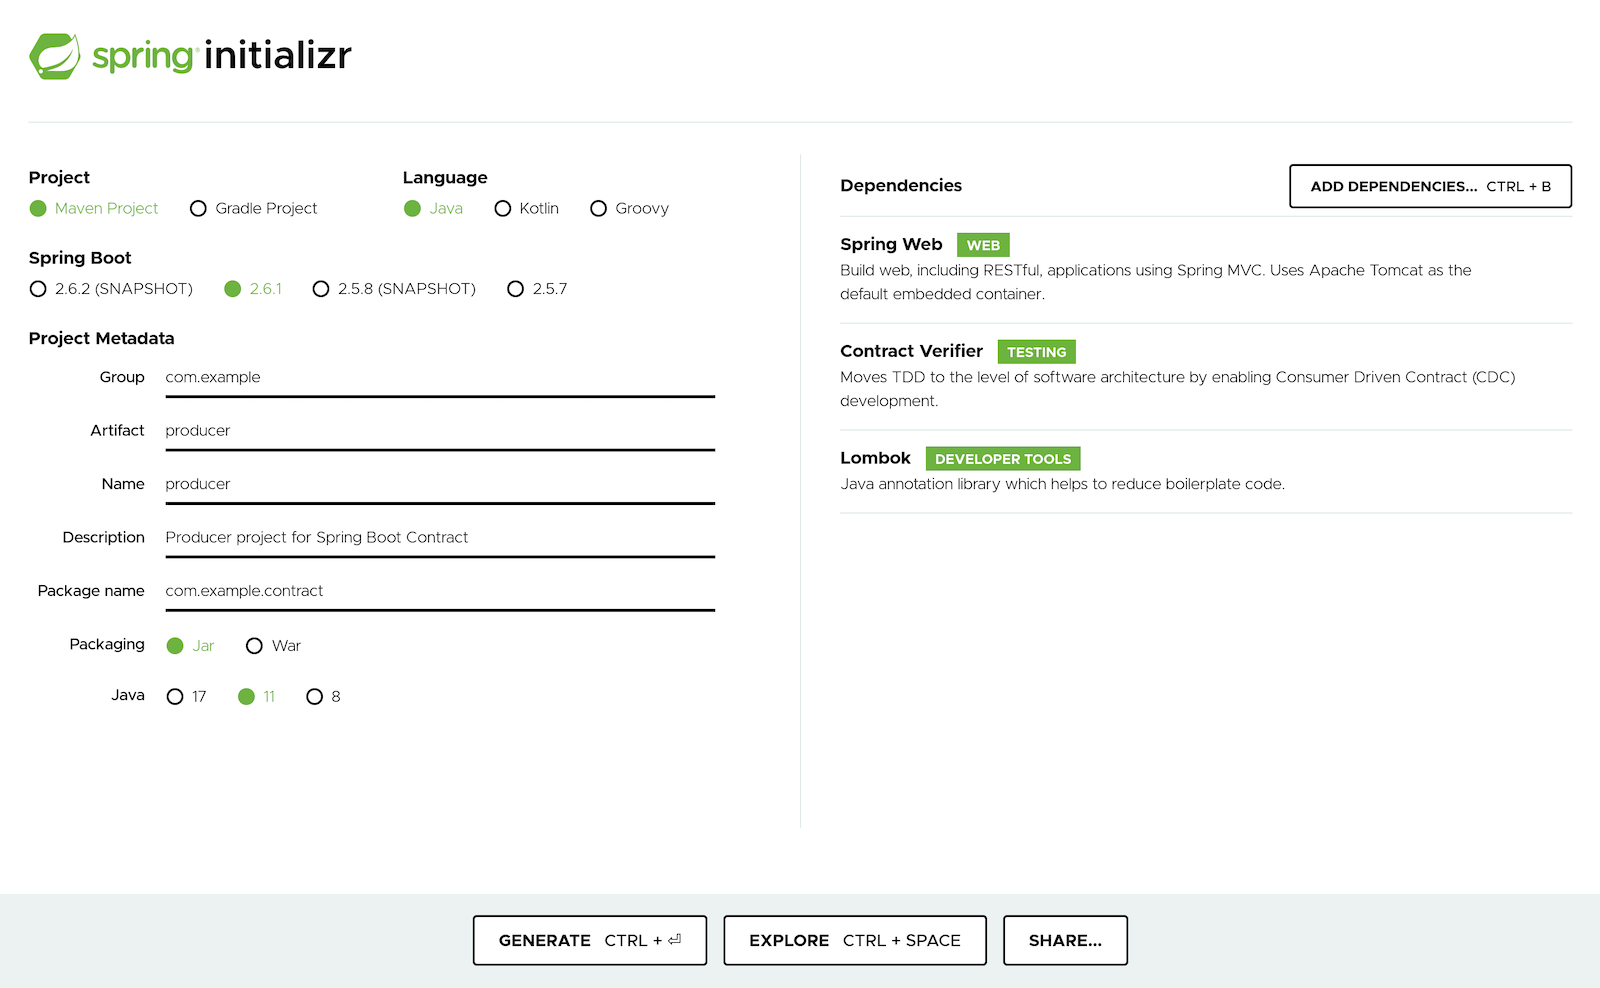
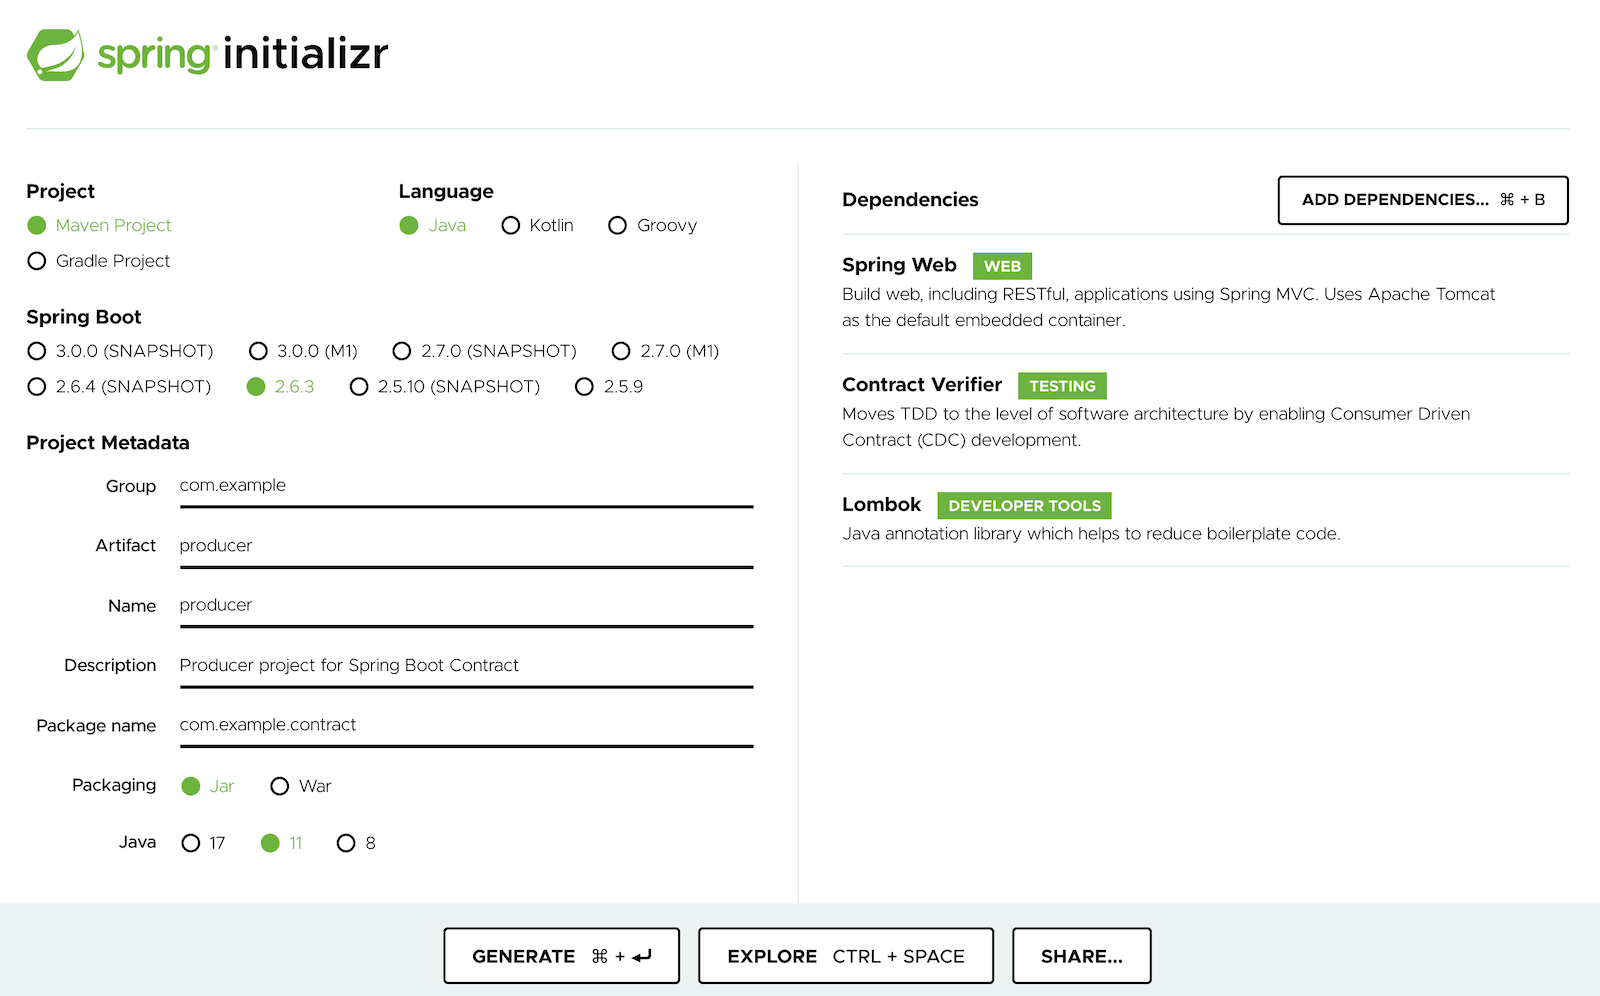
Updates after QA

diff --git a/_source/_posts/2022-02-01-spring-cloud-contract.md b/_source/_posts/2022-02-01-spring-cloud-contract.md
@@ -7,9 +7,9 @@ communities: [java]
 description: "Using Spring Cloud Contract to create better integration tests for microservices."
 tags: [java, spring-cloud-contract, spring-security, spring-boot, oauth2]
 tweets:
-- ""
-- ""
-- ""
+- "For testing your microservices, do you want fast feedback without the need to set up the whole world of microservices? Of course you do! Check out @SpringCloud Contract. It's pretty slick!"
+- "Spring Cloud Contract helps you test interconnected microservices. See how to use it in this quick tutorial."
+- "Learn how to use Spring Cloud Contract to create solid integration tests for your microservices."
 image:
 type: conversion
 github: https://github.com/oktadev/okta-spring-cloud-contract-example
@@ -41,27 +41,27 @@ Before you get started, you'll need to make sure you have a few tools installed.
 
 - **Okta CLI**: The Okta CLI is an easy way to create projects that use Okta for security. Follow the installation instructions on the [Okta CLI project website](https://cli.okta.com/manual/#installation). You should log in to your existing account or register for a new account using the CLI before continuing with the tutorial.
 
-- **Java 11**: This project uses Java 11. OpenJDK 11 will work just as well.  Instructions are found on the [OpenJDK website](https://openjdk.java.net/install/). OpenJDK can also be installed using [Homebrew](https://brew.sh/). Alternatively, [SDKMAN](https://sdkman.io/) is another excellent option for installing and managing Java versions.
+- **Java 11**: This project uses Java 11. OpenJDK 11 will work just as well. Installation instructions can be found on the [OpenJDK website](https://openjdk.java.net/install/). OpenJDK can also be installed using [Homebrew](https://brew.sh/). Alternatively, [SDKMAN](https://sdkman.io/) is another excellent option for installing and managing Java versions.
 
 - **HTTPie**: This is a powerful command-line HTTP request utility you'll use to test both Spring Boot resource servers. Install it according to [the docs on their site](https://httpie.org/doc#installation).
 
 ## Bootstrap the producer project using Spring Initialzr
 
-You'll use the Spring Initializr project to bootstrap the Producer project. Open [this link](https://start.spring.io/#!type=maven-project&language=java&platformVersion=2.6.2&packaging=jar&jvmVersion=11&groupId=com.example&artifactId=producer&name=producer&description=Producer%20project%20for%20Spring%20Boot%20Contract&packageName=com.example.contract&dependencies=web,cloud-contract-verifier,lombok) to access the pre-configured starter project.
+You'll use the Spring Initializr project to bootstrap the Producer project. Open [this link](https://start.spring.io/#!type=maven-project&language=java&platformVersion=2.6.3&packaging=jar&jvmVersion=11&groupId=com.example&artifactId=producer&name=producer&description=Producer%20project%20for%20Spring%20Boot%20Contract&packageName=com.example.contract&dependencies=web,cloud-contract-verifier,lombok) to access the pre-configured starter project.
 
 {% img blog/spring-cloud-contract/producer-starter-config.png alt:"Producer Starter Configuration" width:"1000" %}{: .center-image }
 
-You are creating a Java project -- Java 11 -- using Maven as the build system. The Spring Boot version was 2.6.2 when I wrote this tutorial. You are including three dependencies: 
+You are creating a Java project -- Java 11 -- using Maven as the build system. The Spring Boot version was 2.6.3 when I wrote this tutorial. You are including three dependencies: 
 
-- **[Spring Web](https://docs.spring.io/spring-framework/docs/current/reference/html/web.html)**: adds the basic HTTP/web capabilities to build a REST API.
-- **[Contract Verifier](https://spring.io/projects/spring-cloud-contract)**: brings in Spring Cloud Contract project by enabling Consumer Drive Contracts and stub generation.
-- **[Lombok](https://projectlombok.org/)**: is a helper project that will generate some getters, setters, and constructors.
+- [Spring Web](https://docs.spring.io/spring-framework/docs/current/reference/html/web.html): adds the basic HTTP/web capabilities to build a REST API.
+- [Contract Verifier](https://spring.io/projects/spring-cloud-contract): brings in Spring Cloud Contract project by enabling Consumer Drive Contracts and stub generation.
+- [Lombok](https://projectlombok.org/): is a helper project that will generate some getters, setters, and constructors.
 
 When you're ready, click **Generate** and save the zip file in an appropriate parent directory. You'll be making two Spring Boot projects (as mentioned, a producer and a consumer), so it probably makes sense to have a parent directory named something like `Spring Cloud Contract Tutorial` or `spring-cloud-contract-tutorial` (if you dislike spaces in directory names). 
 
 Unzip the file and open the directory in your favorite editor or IDE. (I'm an IDE/IntelliJ man myself -- hopefully that's not disappointing to y'all -- because in the immortal words of Buckaroo Banzai "Life is too short for vim".)
 
-Let's start by building the hat producer. Both the producer and consumer projects will be Spring Boot resource servers that use Spring Web to implement a simple REST API.
+Let's start by building the hat producer. Both the producer and consumer projects will be Spring Boot resource servers that use Spring MVC to implement a simple REST API.
 
 Create a `Hat.java` file that is the data model for the hats the producer will serve.
 
@@ -83,7 +83,7 @@ public class Hat {
 }
 ```
 
-The hat has four attributes, an `id` as well as `name`, `size`, and `color`. Notice the two annotations. These are what Lombok helped us with. The `@Data` annotation generates getters and setters as well as a `toString()` and a constructor for all required arguments ([check out the docs](https://projectlombok.org/features/Data)). The `@AllArgsConstructor` annotation generates a constructor for all fields in the class. I really like it because it de-clutters the data model classes and saves some time generating all of the 'ceremony' methods. 
+The hat has four attributes, an `id` as well as `name`, `size`, and `color`. Notice the two annotations. These are what Lombok helps us with. The `@Data` annotation generates getters and setters as well as a `toString()` and a constructor for all required arguments ([check out the docs](https://projectlombok.org/features/Data)). The `@AllArgsConstructor` annotation generates a constructor for all fields in the class. I really like it because it de-clutters the data model classes and saves some time generating all of the 'ceremony' methods. 
 
 Next create a `HatService.java`. This is in lieu of using JPA and an actual database to persist the Hat object instances. It's just for demonstration purposes and simply creates two hats --  a large, red sombrero and a smaller blue beanie -- and serves them by ID.  
 
@@ -246,6 +246,8 @@ Contract.make {
 
 The last contract defines a 404 error message for hat ID 3.
 
+`src/test/resources/contracts/find_hat_by_id3.groovy`
+
 ```groovy
 package contracts
 
@@ -266,8 +268,6 @@ Contract.make {
 }
 ```
 
-
-
 For the integration tests generated from these contracts to work, you need to define a base class and add the base class to the `pom.xml`.
 
 Create a `BaseClass.java` test class (notice that this is in `src/test` not `src/main`).
@@ -276,7 +276,6 @@ Create a `BaseClass.java` test class (notice that this is in `src/test` not `src
 
 ```java
 package com.example.contract;
-
 
 import io.restassured.module.mockmvc.RestAssuredMockMvc;
 import org.junit.jupiter.api.BeforeEach;
@@ -341,7 +340,7 @@ To generate the stubs and the integration tests for the contracts, run the follo
 ./mvnw install
 ```
 
-The most important thing this command does (in the context of this tutorial) is that it generates the stubs and installs them in the local `.m2` (Maven) repo. In a production scenario, you might want to install the stubs in a remote repository instead. Take a look at [the Spring Cloud docs](https://docs.spring.io/spring-cloud-contract/docs/3.0.0-SNAPSHOT/reference/htmlsingle/) to see how that is accomplished.
+The most important thing this command does (in the context of this tutorial) is that it generates the stubs and installs them in the local `.m2` (Maven) repo. In a production scenario, you might want to install the stubs in a remote repository instead. Take a look at [the Spring Cloud docs](https://docs.spring.io/spring-cloud-contract/docs/3.1.0/reference/html/) to see how that is accomplished.
 
 If you read through the console output, you'll see a lot of information about the generated integration tests and the stubs. For example, look at the following lines.
 
@@ -354,7 +353,6 @@ If you read through the console output, you'll see a lot of information about th
 [INFO] Using [com.example.contract.BaseClass] as base class for test classes, [null] as base package for tests, [null] as package with base classes, base class mappings []
 [INFO] Creating new class file [.../producer/target/generated-test-sources/contracts/com/example/contract/ContractVerifierTest.java]
 [INFO] Generated 1 test classes.
-
 ```
 
 These lines tell you that Spring found the contracts in the `src/test/resources/contracts` folder, used the base test class defined in the `pom.xml`, and generated integration tests based on the contracts.
@@ -435,19 +433,19 @@ You'll also see lines like the following, showing that the producer stubs have b
 
 ```bash
 [INFO] Converting from Spring Cloud Contract Verifier contracts to WireMock stubs mappings
-[INFO]      Spring Cloud Contract Verifier contracts directory: /home/andrewcarterhughes/Development/okta/2021/spring-book-contracts/QA1/producer/src/test/resources/contracts
-[INFO] Stub Server stubs mappings directory: /home/andrewcarterhughes/Development/okta/2021/spring-book-contracts/QA1/producer/target/stubs/META-INF/com.example/producer/0.0.1-SNAPSHOT/mappings
-[INFO] Creating new stub [/home/andrewcarterhughes/Development/okta/2021/spring-book-contracts/QA1/producer/target/stubs/META-INF/com.example/producer/0.0.1-SNAPSHOT/mappings/find_hat_by_id.json]
-[INFO] Creating new stub [/home/andrewcarterhughes/Development/okta/2021/spring-book-contracts/QA1/producer/target/stubs/META-INF/com.example/producer/0.0.1-SNAPSHOT/mappings/find_hat_by_id2.json]
-[INFO] Creating new stub [/home/andrewcarterhughes/Development/okta/2021/spring-book-contracts/QA1/producer/target/stubs/META-INF/com.example/producer/0.0.1-SNAPSHOT/mappings/find_hat_by_id3.json]
+[INFO]      Spring Cloud Contract Verifier contracts directory: /home/andrewcarterhughes/Development/okta/2021/spring-cloud-contracts/QA1/producer/src/test/resources/contracts
+[INFO] Stub Server stubs mappings directory: /home/andrewcarterhughes/Development/okta/2021/spring-cloud-contracts/QA1/producer/target/stubs/META-INF/com.example/producer/0.0.1-SNAPSHOT/mappings
+[INFO] Creating new stub [/home/andrewcarterhughes/Development/okta/2021/spring-cloud-contracts/QA1/producer/target/stubs/META-INF/com.example/producer/0.0.1-SNAPSHOT/mappings/find_hat_by_id.json]
+[INFO] Creating new stub [/home/andrewcarterhughes/Development/okta/2021/spring-cloud-contracts/QA1/producer/target/stubs/META-INF/com.example/producer/0.0.1-SNAPSHOT/mappings/find_hat_by_id2.json]
+[INFO] Creating new stub [/home/andrewcarterhughes/Development/okta/2021/spring-cloud-contracts/QA1/producer/target/stubs/META-INF/com.example/producer/0.0.1-SNAPSHOT/mappings/find_hat_by_id3.json]
 ```
 
 And toward the end of the console output, you'll see that the stubs jar has been installed in the local Maven repo along with the producer application jar and the POM.
 
 ```bash
-[INFO] Installing /home/andrewcarterhughes/Development/okta/2021/spring-book-contracts/QA1/producer/target/producer-0.0.1-SNAPSHOT.jar to /home/andrewcarterhughes/.m2/repository/com/example/producer/0.0.1-SNAPSHOT/producer-0.0.1-SNAPSHOT.jar
-[INFO] Installing /home/andrewcarterhughes/Development/okta/2021/spring-book-contracts/QA1/producer/pom.xml to /home/andrewcarterhughes/.m2/repository/com/example/producer/0.0.1-SNAPSHOT/producer-0.0.1-SNAPSHOT.pom
-[INFO] Installing /home/andrewcarterhughes/Development/okta/2021/spring-book-contracts/QA1/producer/target/producer-0.0.1-SNAPSHOT-stubs.jar to /home/andrewcarterhughes/.m2/repository/com/example/producer/0.0.1-SNAPSHOT/producer-0.0.1-SNAPSHOT-stubs.jar
+[INFO] Installing /home/andrewcarterhughes/Development/okta/2021/spring-cloud-contracts/QA1/producer/target/producer-0.0.1-SNAPSHOT.jar to /home/andrewcarterhughes/.m2/repository/com/example/producer/0.0.1-SNAPSHOT/producer-0.0.1-SNAPSHOT.jar
+[INFO] Installing /home/andrewcarterhughes/Development/okta/2021/spring-cloud-contracts/QA1/producer/pom.xml to /home/andrewcarterhughes/.m2/repository/com/example/producer/0.0.1-SNAPSHOT/producer-0.0.1-SNAPSHOT.pom
+[INFO] Installing /home/andrewcarterhughes/Development/okta/2021/spring-cloud-contracts/QA1/producer/target/producer-0.0.1-SNAPSHOT-stubs.jar to /home/andrewcarterhughes/.m2/repository/com/example/producer/0.0.1-SNAPSHOT/producer-0.0.1-SNAPSHOT-stubs.jar
 ```
 
 These stubs are what you will, in a few minutes, import into the consumer application for integration testing. **Notice how, because of the autogenerated integration testing, the behavior of the stubs is guaranteed to match the behavior tested and defined by the contract.** This is awesome. However, bear in mind, "the devil is in the contract," as they say. 
@@ -520,7 +518,7 @@ Remember that here you are seeing the "live" data, not the test data that is def
 
 ## Add identity with Okta
 
-Now you are going to add Okta JSON Web Token (JWT) auth to the application. You should have already installed the CLI and signed up for a free Okta developer account. If you have not, please follow the installation instructions on the [Okta CLI project website](https://cli.okta.com/manual/#installation)and run `okta register`. 
+Now you are going to add Okta JSON Web Token (JWT) auth to the application. You should have already installed the CLI and signed up for a free Okta developer account. If you have not, please follow the installation instructions on the [Okta CLI project website](https://cli.okta.com/manual/#installation) and run `okta register`. 
 
 Add the dependency for Okta's Spring Boot starter to the `pom.xml` file. This project adds the necessary dependencies to use Okta as an OAuth 2.0 and OIDC provider. Take a look at [the project's GitHub page](https://github.com/okta/okta-spring-boot) for more info.
 
@@ -591,12 +589,12 @@ Start the application (or, if it is still running, use `control-c` to stop it an
 ```bash
 ./mvnw spring-boot:run
 ```
-## Generate a JWT and test the secure app
 
+## Generate a JWT and test the secure app
 
 To generate a valid JWT, you need to create an OpenID Connect (OIDC) application on Okta and use the OIDC Debugger application to request a JWT from the OIDC application. 
 
-{% include setup/cli.md type="web" install="false" loginRedirectUri="https://oidcdebugger.com/debug" %}
+{% include setup/cli.md type="spa" install="false" loginRedirectUri="https://oidcdebugger.com/debug" logoutRedirectUri="https://oidcdebugger.com/" %}
 
 {% include setup/oidcdebugger.md %}
 
@@ -633,9 +631,9 @@ One of the benefits of the Spring Cloud Contract project is that the mocked and 
 
 The next step is to create the consumer application. This will simulate a public-facing service to retrieve hats from the producer and serve them to the clients. The key point in this tutorial is to see how the stubs generated from the producer project can be imported into the consumer project and used to verify application behavior.  
 
-Use the Spring Initializr to create the starter project by following [this link](https://start.spring.io/#!type=maven-project&language=java&platformVersion=2.6.2&packaging=jar&jvmVersion=11&groupId=com.example&artifactId=consumer&name=consumer&description=Producer%20project%20for%20Spring%20Boot%20Contract&packageName=com.example.consumer&dependencies=web,cloud-contract-stub-runner,lombok).
+Use the Spring Initializr to create the starter project by following [this link](https://start.spring.io/#!type=maven-project&language=java&platformVersion=2.6.3&packaging=jar&jvmVersion=11&groupId=com.example&artifactId=consumer&name=consumer&description=Producer%20project%20for%20Spring%20Boot%20Contract&packageName=com.example.consumer&dependencies=web,cloud-contract-stub-runner,lombok).
 
-The project is very similar to the producer project except that the included dependencies are different. Here you are including the **Spring Web MVC** and the **Contract Stub Runner** (in place of the **Contract Verifier**).
+The project is very similar to the producer project except that the included dependencies are different. Here you are including **Spring Web** and **Contract Stub Runner** (in place of the **Contract Verifier**).
 
 {% img blog/spring-cloud-contract/consumer-dependencies.png alt:"Consumer Dependencies" width:"600" %}{: .center-image }
 
@@ -737,7 +735,7 @@ Make sure your producer application is still running. In a new shell, run the co
 ./mvnw spring-boot:run
 ```
 
-Once the application is running, you can use the auth token you created earlier to make a request on the consumer (which will pass along the request to the secured producer).
+Once the application is running, you can use the access token you created earlier to make a request on the consumer (which will pass along the request to the secured producer).
 
 ```bash
 http :8081/wearhat/1 "Authorization: Bearer $TOKEN"
@@ -757,7 +755,7 @@ Enjoy your new Sombrero
 
 Now, the exciting part. You're going to import the stubs generated from the producer project into the consumer project and use them for integration tests. 
 
-First, create a `resources.properties` file in the `src/test` folder. Notice that you are changing the `producer.port` to `8100`. This is the port on which the stubbed producer will run. It's helpful if this is different than the actual port on which the producer runs.
+First, create an `application.properties` file in the `src/test/resources` folder. Notice that you are changing the `producer.port` to `8100`. This is the port on which the stubbed producer will run. It's helpful if this is different than the actual port on which the producer runs.
 
 `src/test/resources/application.properties`
 
@@ -834,9 +832,9 @@ You're specifying the `com.example:producer` project, with the latest version, t
 
 You also define three tests that match the expected behavior defined in the contracts. 
 
-Next, create a more realistic integration test on the consumer in a new file, `ContractIntegrationTest.java`.
+Next, create a more realistic integration test on the consumer in a new file, `ConsumerIntegrationTest.java`.
 
-`src/test/java/com/example/consumer/ContractIntegrationTest.java`
+`src/test/java/com/example/consumer/ConsumerIntegrationTest.java`
 
 ```java
 package com.example.consumer;
@@ -872,10 +870,21 @@ public class ConsumerIntegrationTest {
     }
 
 }
-
 ```
 
 This is why you specified the producer port in the `application.properties` file. By using different ports in `src/test/java` and `src/main/java` you are able to direct the tests to the stubbed producer, which allows you to create a true integration test. In the test above, the mocked consumer calls the stubbed producer and returns the result, which is checked against the expected value. Otherwise, when you ran the test above, it would try and call the producer on port `8080`, which would call the actual producer running on that port.
+
+You can run these tests in your IDE or from the command line with `./mvnw test`. Everything should pass!
+
+```
+[INFO] Results:
+[INFO] 
+[INFO] Tests run: 5, Failures: 0, Errors: 0, Skipped: 0
+[INFO] 
+[INFO] ------------------------------------------------------------------------
+[INFO] BUILD SUCCESS
+[INFO] ------------------------------------------------------------------------
+```
 
 ## Learn more about Spring Boot and Spring Cloud Contract
 
